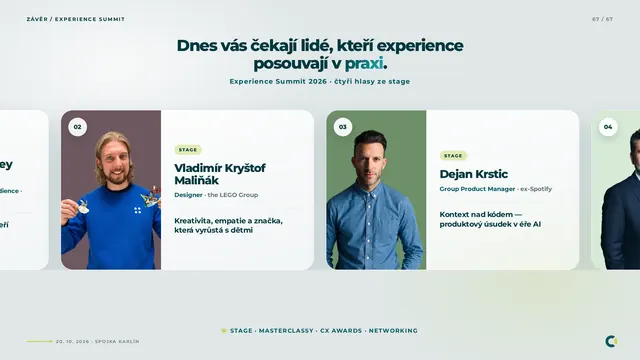
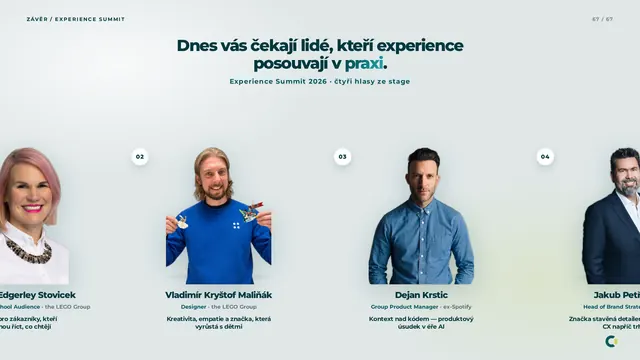
Speakers as cutouts, drop footer bar, slower carousel
Slide 67: isolated portraits (Experience Summit photos, bg removed)
matching the Musk/Altman/Reva cutout treatment; remove date/program
footer; slow the loop. Refresh overview thumbs ha1 + vd1.

diff --git a/src/scenes/finale/SpeakersEnd.tsx b/src/scenes/finale/SpeakersEnd.tsx
@@ -6,9 +6,9 @@ import { asset } from "../../engine/assets";
 import { EASE } from "../../engine/motion";
 
 /**
- * Closing slide — four stage speakers in a continuous right→left carousel.
- * Photos: official Experience Summit headshots from experiencesummit.cz
- * (Clientology). Topics from the same public program.
+ * Closing slide — four stage speakers as isolated cutouts (same treatment
+ * as Musk / Altman / Schwartz), continuous right→left carousel.
+ * Photos: Experience Summit headshots, background removed.
  */
 const SPEAKERS = [
   {
@@ -18,7 +18,7 @@ const SPEAKERS = [
     role: "Global Head of Preschool Audience",
     org: "the LEGO Group",
     topic: "Design pro zákazníky, kteří nemohou říct, co chtějí",
-    photo: "speakers/michaela-port.webp",
+    photo: "speakers/michaela-cut.webp",
   },
   {
     id: "krystof",
@@ -27,7 +27,7 @@ const SPEAKERS = [
     role: "Designer",
     org: "the LEGO Group",
     topic: "Kreativita, empatie a značka, která vyrůstá s dětmi",
-    photo: "speakers/krystof-port.webp",
+    photo: "speakers/krystof-cut.webp",
   },
   {
     id: "dejan",
@@ -36,7 +36,7 @@ const SPEAKERS = [
     role: "Group Product Manager",
     org: "ex-Spotify",
     topic: "Kontext nad kódem — produktový úsudek v éře AI",
-    photo: "speakers/dejan-port.webp",
+    photo: "speakers/dejan-cut.webp",
   },
   {
     id: "jakub",
@@ -45,13 +45,15 @@ const SPEAKERS = [
     role: "Head of Brand Strategy",
     org: "PPF",
     topic: "Značka stavěná detailem — škálovat CX napříč trhy",
-    photo: "speakers/jakub-port.webp",
+    photo: "speakers/jakub-cut.webp",
   },
 ] as const;
 
-const CARD_W = 760;
-const GAP = 36;
+const CARD_W = 560;
+const GAP = 48;
 const STRIDE = CARD_W + GAP;
+/** One full set of four cards; slower than the previous 28s loop. */
+const LOOP_DURATION = 42;
 
 export function SpeakersEnd({ reduced }: SceneProps) {
   const root = useRef<HTMLDivElement>(null);
@@ -63,11 +65,9 @@ export function SpeakersEnd({ reduced }: SceneProps) {
     const sub = el.querySelector<HTMLElement>("[data-sp-sub]");
     const track = el.querySelector<HTMLElement>("[data-sp-track]");
     const cards = gsap.utils.toArray<HTMLElement>("[data-sp-card]", el);
-    const foot = el.querySelector<HTMLElement>("[data-sp-foot]");
 
     if (reduced || !track) {
-      gsap.set([title, sub, foot, ...cards], { autoAlpha: 1, y: 0 });
-      // Static: show the first four cards only, centered as a row.
+      gsap.set([title, sub, ...cards], { autoAlpha: 1, y: 0 });
       cards.forEach((card, i) => {
         if (i >= SPEAKERS.length) gsap.set(card, { display: "none" });
       });
@@ -78,27 +78,23 @@ export function SpeakersEnd({ reduced }: SceneProps) {
 
     gsap.set(title, { autoAlpha: 0, y: 20 });
     gsap.set(sub, { autoAlpha: 0, y: 12 });
-    gsap.set(foot, { autoAlpha: 0, y: 10 });
     gsap.set(cards, { autoAlpha: 1 });
 
     const intro = gsap.timeline();
     intro.to(title, { autoAlpha: 1, y: 0, duration: 0.5, ease: EASE.enter }, 0.05);
     intro.to(sub, { autoAlpha: 1, y: 0, duration: 0.4, ease: EASE.enter }, 0.22);
-    intro.to(foot, { autoAlpha: 1, y: 0, duration: 0.4, ease: EASE.enter }, 0.5);
 
-    // Two copies of the four cards → seamless loop of one set width.
     const loopW = STRIDE * SPEAKERS.length;
-    gsap.set(track, { x: 120 });
+    const base = 100;
+    gsap.set(track, { x: base });
     const loop = gsap.to(track, {
       x: `-=${loopW}`,
-      duration: 28,
+      duration: LOOP_DURATION,
       ease: "none",
       repeat: -1,
       modifiers: {
         x: gsap.utils.unitize((x) => {
           const n = parseFloat(x);
-          // Keep x in (-loopW + 120, 120]
-          const base = 120;
           const d = ((n - base) % -loopW + -loopW) % -loopW;
           return base + d;
         }),
@@ -115,12 +111,7 @@ export function SpeakersEnd({ reduced }: SceneProps) {
 
   return (
     <div ref={root} className="scene sp-stage">
-      <SlideChrome
-        kicker="ZÁVĚR / EXPERIENCE SUMMIT"
-        page="67 / 67"
-        caption="20. 10. 2026 · Spojka Karlín"
-        captionDot
-      />
+      <SlideChrome kicker="ZÁVĚR / EXPERIENCE SUMMIT" page="67 / 67" />
       <h2 data-sp-title className="sp-title">
         Dnes vás čekají lidé, kteří experience
         <br />
@@ -128,7 +119,7 @@ export function SpeakersEnd({ reduced }: SceneProps) {
       </h2>
       <p data-sp-sub className="sp-sub">Experience Summit 2026 · čtyři hlasy ze stage</p>
 
-      <div className="sp-rail" aria-hidden={false}>
+      <div className="sp-rail">
         <div data-sp-track className="sp-track">
           {strip.map((speaker, index) => (
             <article
@@ -140,14 +131,13 @@ export function SpeakersEnd({ reduced }: SceneProps) {
               <div className="sp-photo-wrap">
                 <img
                   data-art
-                  className="sp-photo"
+                  className="sp-photo cutout"
                   src={asset(speaker.photo)}
                   alt=""
                 />
                 <span className="sp-n">{speaker.n}</span>
               </div>
               <div className="sp-copy">
-                <span className="sp-tag">STAGE</span>
                 <div className="sp-name">{speaker.name}</div>
                 <div className="sp-role">
                   {speaker.role}
@@ -158,11 +148,6 @@ export function SpeakersEnd({ reduced }: SceneProps) {
             </article>
           ))}
         </div>
-      </div>
-
-      <div data-sp-foot className="sp-foot">
-        <span className="sp-foot-dot" />
-        Stage · Masterclassy · CX Awards · Networking
       </div>
     </div>
   );

diff --git a/src/styles/finale-b.css b/src/styles/finale-b.css
@@ -118,11 +118,11 @@
   position: absolute;
   left: 0;
   right: 0;
-  top: 290px;
-  height: 520px;
+  top: 280px;
+  bottom: 40px;
   overflow: hidden;
-  mask-image: linear-gradient(90deg, transparent 0%, #000 5%, #000 95%, transparent 100%);
-  -webkit-mask-image: linear-gradient(90deg, transparent 0%, #000 5%, #000 95%, transparent 100%);
+  mask-image: linear-gradient(90deg, transparent 0%, #000 4%, #000 96%, transparent 100%);
+  -webkit-mask-image: linear-gradient(90deg, transparent 0%, #000 4%, #000 96%, transparent 100%);
 }
 .sp-track {
   position: absolute;
@@ -130,117 +130,111 @@
   left: 0;
   height: 100%;
   display: flex;
-  gap: 36px;
+  align-items: flex-end;
+  gap: 48px;
   will-change: transform;
+  padding-bottom: 28px;
 }
 .sp-card {
   flex: 0 0 auto;
-  height: 480px;
+  height: 620px;
   display: grid;
-  grid-template-columns: 300px 1fr;
+  grid-template-rows: 1fr auto;
   gap: 0;
-  border-radius: 36px;
-  overflow: hidden;
-  border: 1px solid rgba(255, 255, 255, 0.85);
-  background: linear-gradient(165deg, rgba(255, 255, 255, 0.92), rgba(255, 255, 255, 0.58));
-  box-shadow:
-    0 28px 64px rgba(3, 56, 61, 0.14),
-    inset 0 1px 0 rgba(255, 255, 255, 0.95);
-  backdrop-filter: blur(20px) saturate(1.3);
-  -webkit-backdrop-filter: blur(20px) saturate(1.3);
+  border: none;
+  border-radius: 0;
+  overflow: visible;
+  background: transparent;
+  box-shadow: none;
+  backdrop-filter: none;
+  -webkit-backdrop-filter: none;
 }
 .sp-photo-wrap {
   position: relative;
   height: 100%;
-  background: var(--text-deep);
+  min-height: 0;
+  display: flex;
+  align-items: flex-end;
+  justify-content: center;
+  background: transparent;
+  overflow: visible;
+}
+.sp-photo-wrap::after {
+  content: "";
+  position: absolute;
+  left: 18%;
+  right: 18%;
+  bottom: 8px;
+  height: 28px;
+  border-radius: 50%;
+  background: radial-gradient(ellipse, rgba(3, 56, 61, 0.18), transparent 70%);
+  pointer-events: none;
+  z-index: 0;
 }
 .sp-photo {
-  width: 100%;
+  position: relative;
+  z-index: 1;
+  width: auto;
+  max-width: 100%;
   height: 100%;
-  object-fit: cover;
-  object-position: center top;
+  max-height: 480px;
+  object-fit: contain;
+  object-position: center bottom;
   display: block;
+  filter: drop-shadow(0 18px 36px rgba(3, 56, 61, 0.2));
 }
 .sp-n {
   position: absolute;
-  left: 22px;
-  top: 22px;
-  width: 56px;
-  height: 56px;
+  left: 18px;
+  top: 12px;
+  width: 52px;
+  height: 52px;
   display: grid;
   place-items: center;
   border-radius: 50%;
   background: rgba(255, 255, 255, 0.92);
   color: var(--text-deep);
-  font-size: 18px;
+  font-size: 17px;
   font-weight: 800;
   letter-spacing: 0.04em;
-  box-shadow: 0 10px 24px rgba(3, 56, 61, 0.18);
+  box-shadow: 0 10px 24px rgba(3, 56, 61, 0.16);
+  z-index: 2;
 }
 .sp-copy {
   display: flex;
   flex-direction: column;
-  justify-content: center;
-  padding: 40px 44px 40px 40px;
+  justify-content: flex-start;
+  padding: 18px 12px 0;
   min-width: 0;
-}
-.sp-tag {
-  align-self: flex-start;
-  padding: 7px 14px;
-  border-radius: 999px;
-  background: rgba(195, 213, 82, 0.42);
-  color: var(--text-deep);
-  font-size: 13px;
-  font-weight: 800;
-  letter-spacing: 0.16em;
-  margin-bottom: 22px;
+  text-align: center;
 }
 .sp-name {
-  font-size: 34px;
+  font-size: 26px;
   font-weight: 800;
-  letter-spacing: -0.045em;
-  line-height: 1.08;
+  letter-spacing: -0.04em;
+  line-height: 1.12;
   color: var(--text-deep);
 }
 .sp-role {
-  margin-top: 14px;
-  font-size: 18px;
+  margin-top: 10px;
+  font-size: 16px;
   font-weight: 700;
   line-height: 1.35;
   color: var(--teal);
 }
 .sp-org { color: var(--muted); font-weight: 650; }
 .sp-topic {
-  margin-top: 28px;
-  padding-top: 22px;
-  border-top: 1px solid rgba(0, 88, 96, 0.12);
-  font-size: 22px;
+  margin-top: 14px;
+  padding-top: 0;
+  border-top: none;
+  font-size: 18px;
   font-weight: 650;
   letter-spacing: -0.02em;
-  line-height: 1.3;
+  line-height: 1.28;
   color: var(--text-deep);
-}
-.sp-foot {
-  position: absolute;
-  left: 0;
-  right: 0;
-  bottom: 78px;
-  display: flex;
-  align-items: center;
-  justify-content: center;
-  gap: 14px;
-  font-size: 17px;
-  font-weight: 700;
-  letter-spacing: 0.1em;
-  text-transform: uppercase;
-  color: var(--teal);
-}
-.sp-foot-dot {
-  width: 10px;
-  height: 10px;
-  border-radius: 50%;
-  background: var(--lime);
-  box-shadow: 0 0 0 6px rgba(195, 213, 82, 0.28);
+  max-width: 28ch;
+  margin-left: auto;
+  margin-right: auto;
 }
 @media (prefers-reduced-motion: reduce) {
   .sp-rail { mask-image: none; -webkit-mask-image: none; }
@@ -250,10 +244,11 @@
   -webkit-mask-image: none;
 }
 .scene.sp-stage.is-sp-static .sp-track {
-  transform-origin: left center;
-  scale: 0.58;
-  top: 40px;
+  transform-origin: left bottom;
+  scale: 0.72;
+  top: auto;
+  bottom: 20px;
 }
 .scene.sp-stage.is-sp-static .sp-card {
-  height: 480px;
+  height: 560px;
 }
